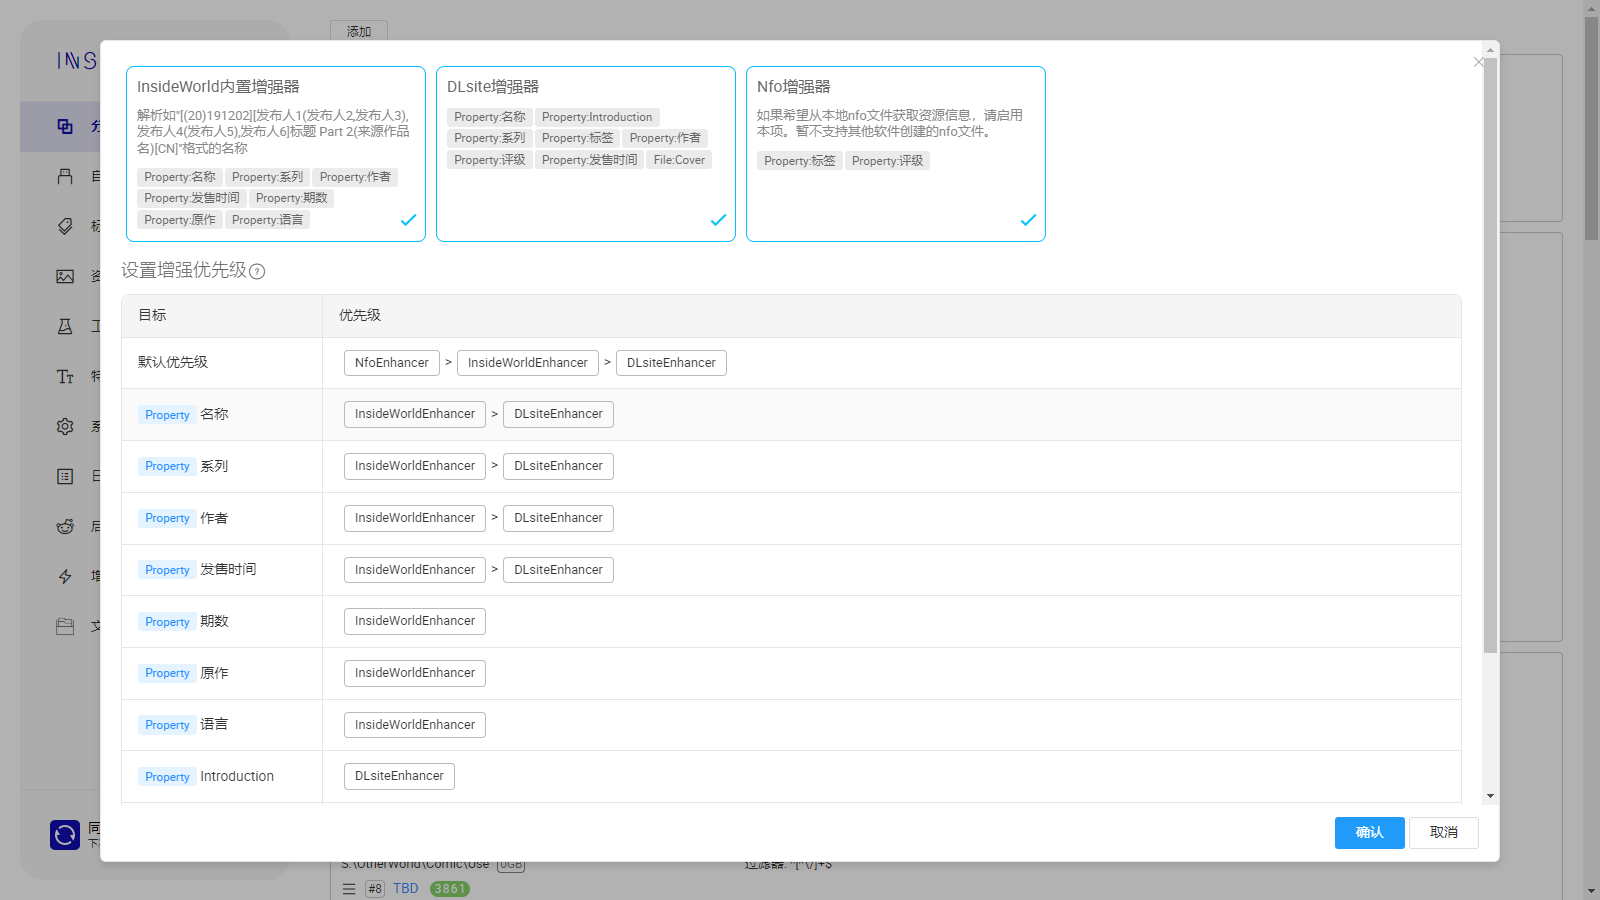
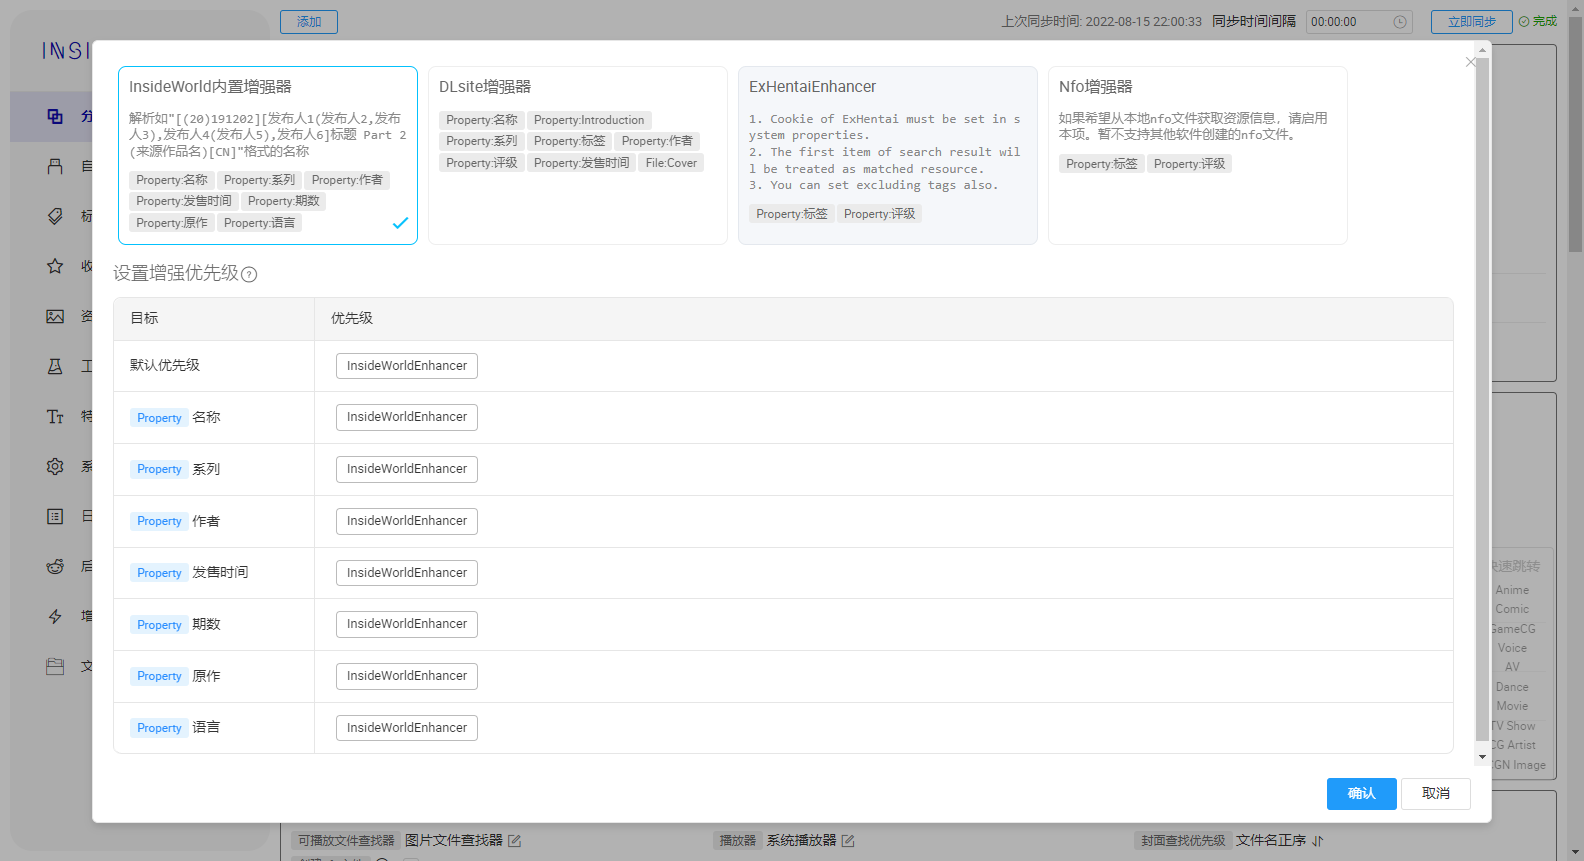
additional information for 1.6.2

Changed region(s): [[0.0309, 0.0, 0.9899, 1.0], [0.9899, 0.2416, 1.0, 0.302], [0.6187, 0.2416, 0.6496, 0.2718]]

diff --git a/docs/doc/category-enhancer-exhentai.md b/docs/doc/category-enhancer-exhentai.md
@@ -1,1 +1,8 @@
 通过资源名称在exhentai搜索资源，并将第一个搜索结果的信息补全至该资源
+
+![category-enhancer-exhentai](/img/category-enhancer-exhentai-1.png)
+
+可以配置不需要的标签，支持泛匹配符号*，举例：
++ `language:chinese`会忽略获取到的`language:chinese`标签
++ `language:*`会忽略获取到的所有以`language`为**namespace**的标签，如`language:chinese`，`language:english`
++ `*:*`会忽略所有标签

diff --git a/docs/doc/resource-preview.md b/docs/doc/resource-preview.md
@@ -1,0 +1,8 @@
+可以快速预览资源，目前仅支持部分格式的文件。
+
+![resource-preview](/img/resource-preview-1.png)
+![resource-preview](/img/resource-preview-2.png)
+
+可以在预览时将该资源添加到收藏夹，也可以手动截取视频作为资源封面。
+
+![resource-preview](/img/resource-preview-3.png)

diff --git a/docs/doc/tag-group.md b/docs/doc/tag-group.md
@@ -1,3 +1,4 @@
 从**1.6.2**版本开始，标签组名称将具有含义，不同标签组的同名标签将视作不同标签
 
-TBD
+![tag-group](/img/tag-group-1.png)
+![tag-group](/img/tag-group-2.png)

diff --git a/docs/doc/favorites.md b/docs/doc/favorites.md
@@ -1,3 +1,4 @@
 可以自由创建收藏夹，并且将资源关联至该收藏夹
 
-TBD
+![favorites](/img/favorites-1.png)
+![favorites](/img/favorites-2.png)
